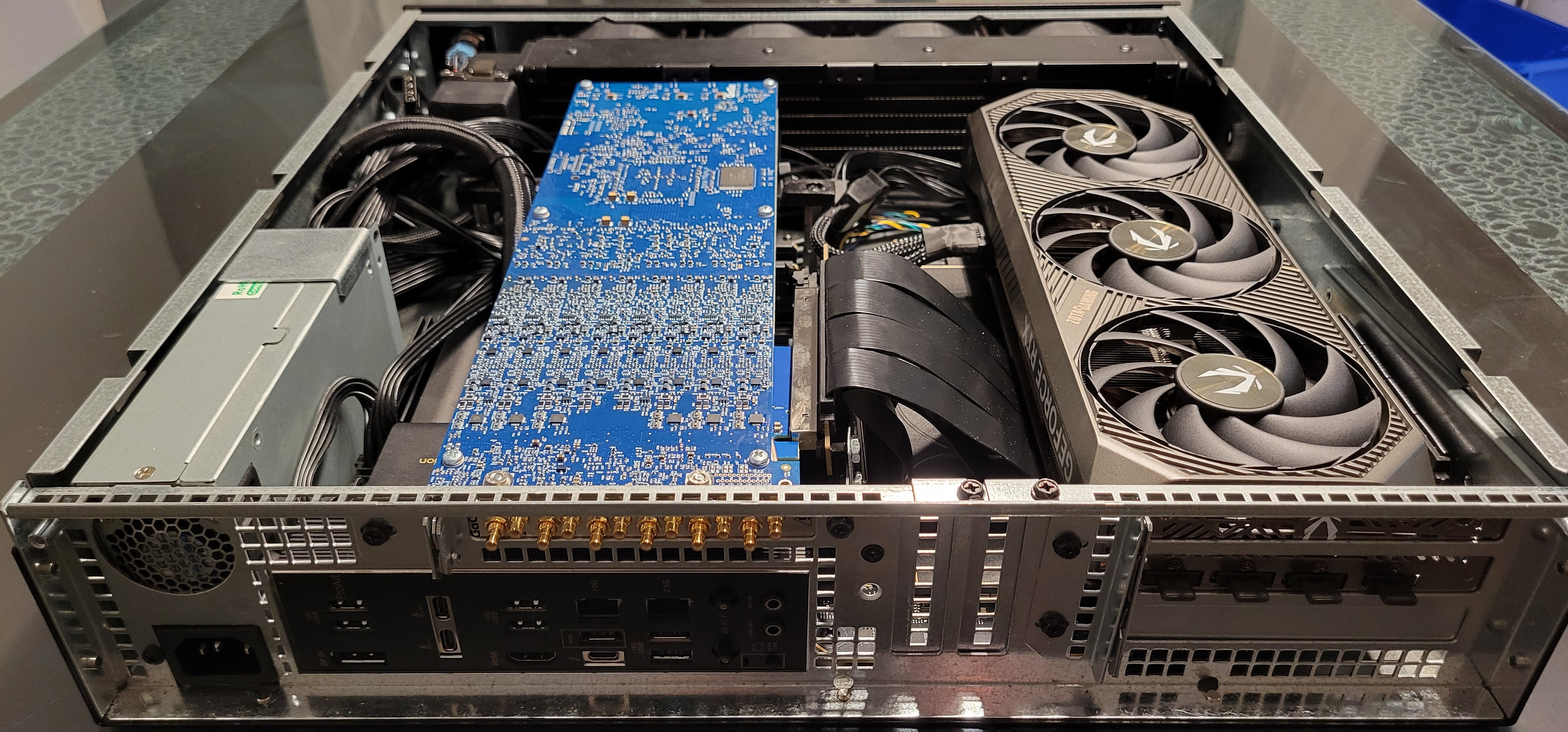
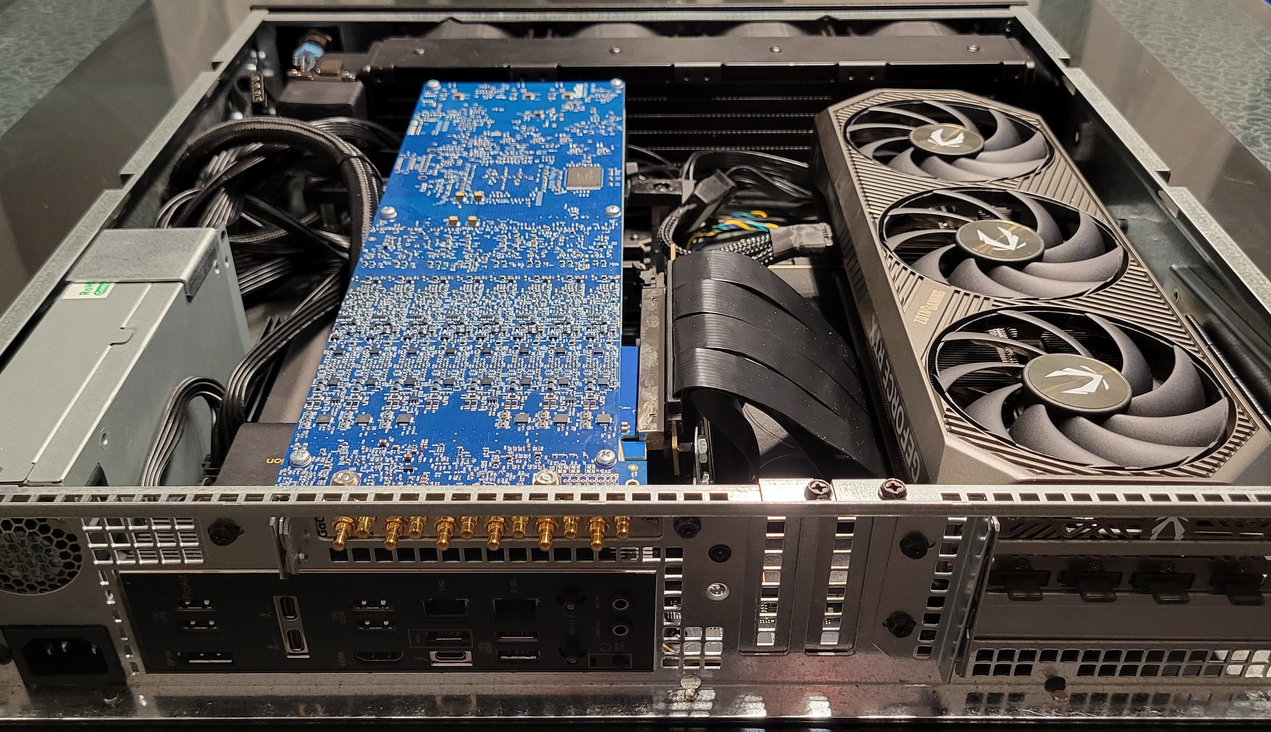
Revert to old format

diff --git a/index.html b/index.html
@@ -103,27 +103,14 @@
     font-size: 0.9rem;
     font-weight: bold;
 }
-/* Rack-mounted system images */
-        .rack-systems img {
-            width: 250px; /* Increase size here */
-            height: 200px;
-            object-fit: cover;
-            border-radius: 10%;
-            border: 2px solid #ccc;
-        }
-
-.rack-systems figcaption {
-    margin-top: 8px;
-    font-size: 0.9rem;
-    font-weight: bold;
 }
         
-footer {
-    background: #2c3e50;
-    color: #fff;
-    text-align: center;
-    padding: 1em 0;
-}
+        footer {
+            background: #2c3e50;
+            color: #fff;
+            text-align: center;
+            padding: 1em 0;
+        }
     </style>
 </head>
 <body>
@@ -178,7 +165,7 @@ footer {
         
         <h3>Fully integrated system</h3>
         <p>    2U, 3U and 4U racknounted units customized to your application </p>
-       <div class="rack-systems">
+       <div class="founders">
             <figure>
                 <img src="ressources/2U.jpg" alt="2U rack mount system">
                 <figcaption>2U Rack-Mounted System</figcaption>
